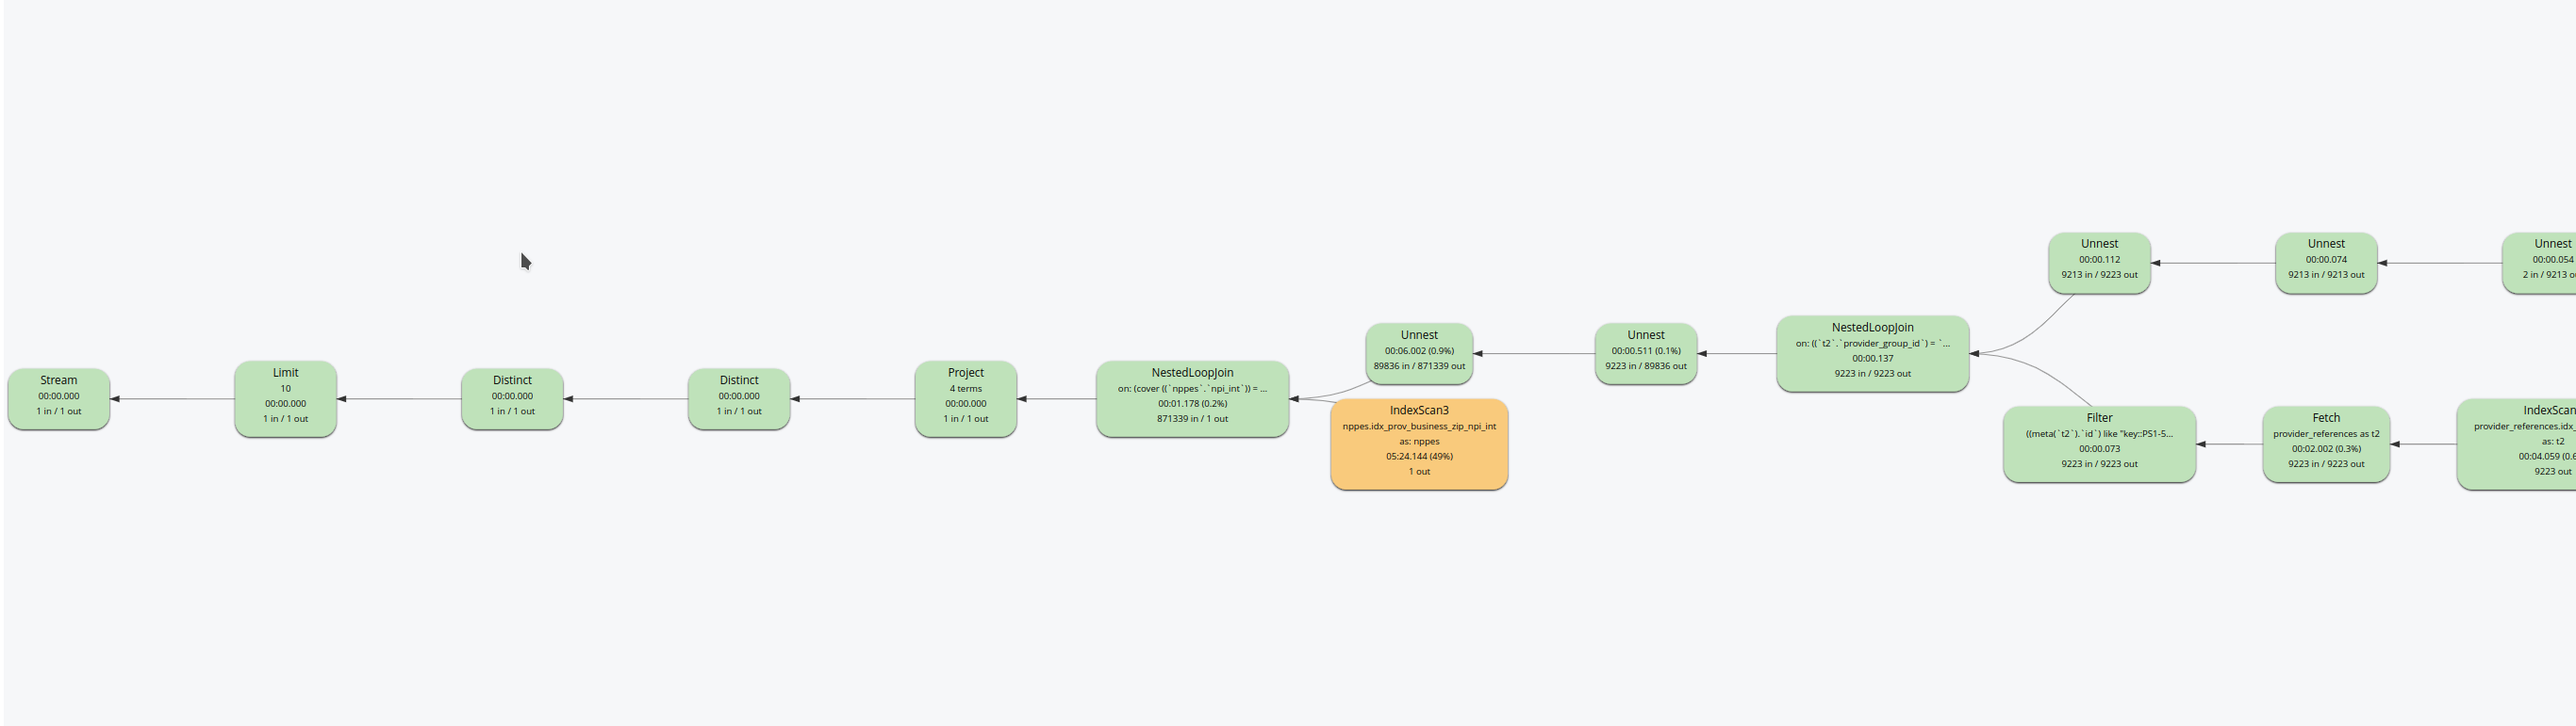
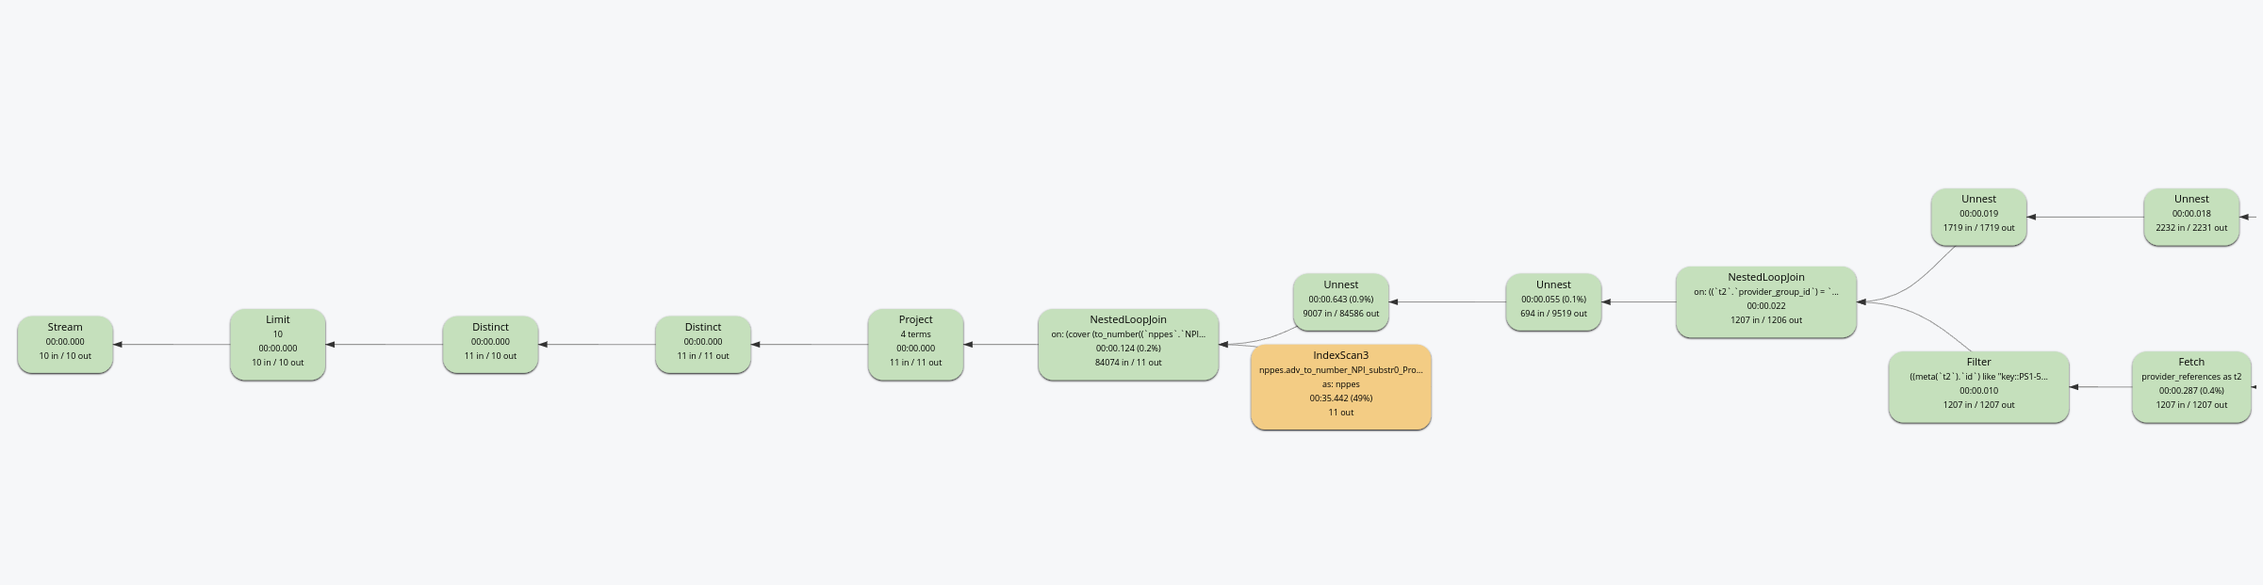
plan with new query

Changed region(s): [[0.0, 0.306, 1.0, 0.7649]]

diff --git a/N1QL_EXPLORE.md b/N1QL_EXPLORE.md
@@ -72,10 +72,10 @@ AND nppes.prov_business_zip= '56751'
 AND meta(t2).id LIKE 'key::PS1-50_C2%'
 ```
 This query without the Zip Code Condition executes in under 100ms.
-Adding the Zip Code clause the query takes minutes to finish.
+Adding the Zip Code clause the query takes 30 seconds.
 The bottleneck seems to be with the nppes zipcode scan. 
+![cb_plan_nppes_scan_01.png.png](img%2Fcb_plan_nppes_scan_01.png)
 ![cb_plan_nppes_scan_02.png](img%2Fcb_plan_nppes_scan_02.png)
-![cb_plan_nppes_scan_01.png.png](img%2Fcb_plan_nppes_scan_01.png.png)
 ```sql
 SELECT
     DISTINCT     t.billing_code, pr.negotiated_rate,npi,SUBSTR(nppes.`Provider Business Practice Location Address Postal Code`,0,5)
